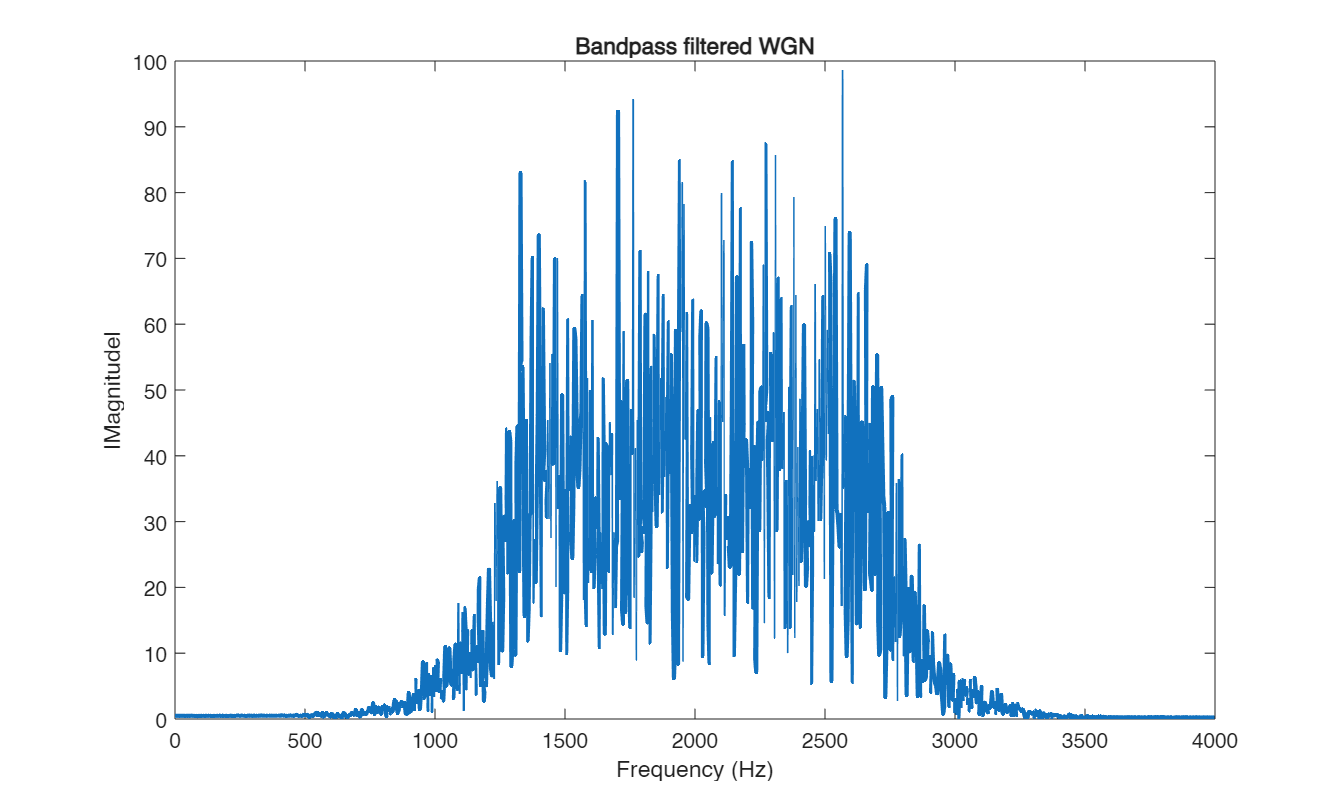
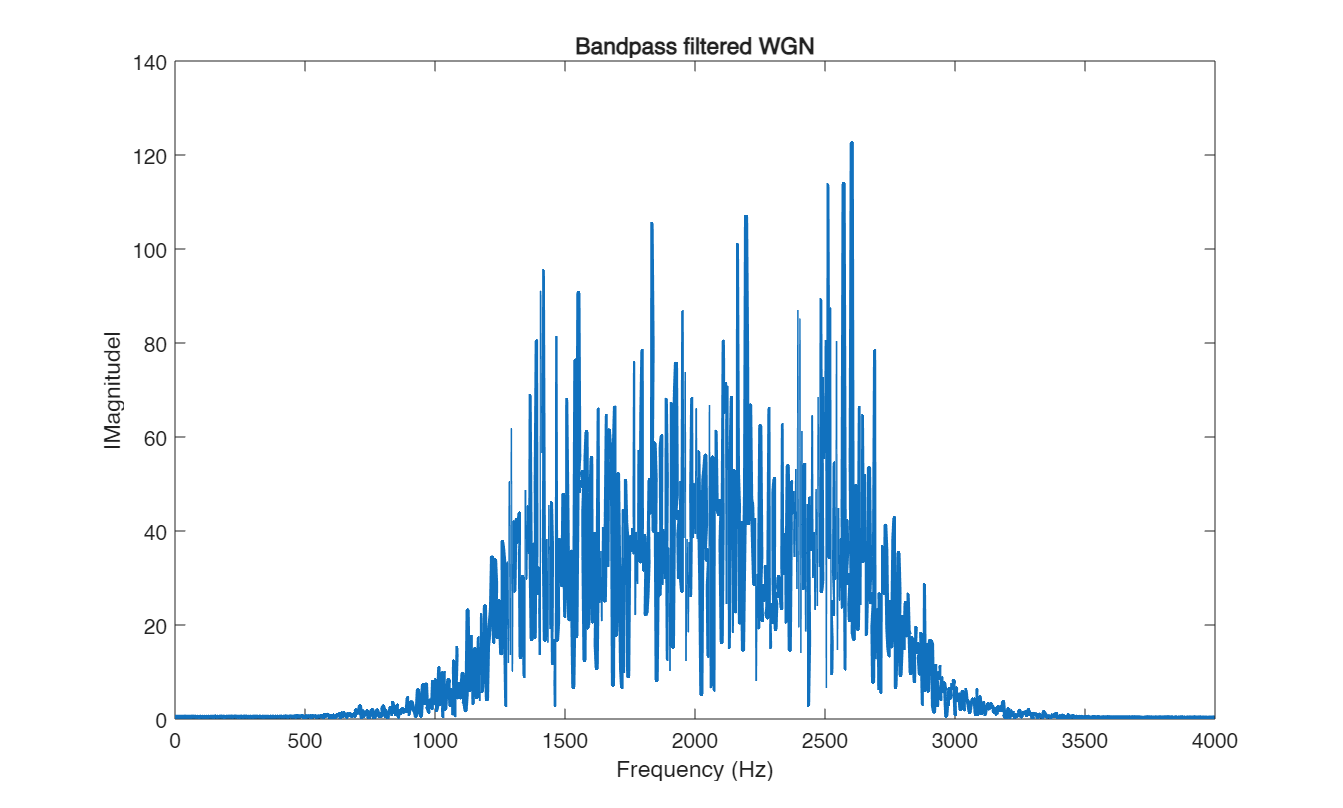
bp zero pad

diff --git a/MiniProject/IIR_coeffs/bp.h b/MiniProject/IIR_coeffs/bp.h
@@ -1,5 +1,5 @@
-#define N_IIR_BP 7
+#define N_IIR_BP 8
 
-float b_iir_bp[] = { 0.0503269f, 0.0000000f, -0.1344112f, 0.0000000f, 0.1344112f, -0.0000000f, -0.0503269f };
+float b_iir_bp[] = { 0.0503269f, 0.0000000f, -0.1344112f, 0.0000000f, 0.1344112f, -0.0000000f, -0.0503269f, 0.0000000f };
 
-float a_iir_bp[] = { 1.0000000f, -0.0000000f, 1.3798802f, -0.0000000f, 1.1092451f, 0.0000000f, 0.3598888f };
+float a_iir_bp[] = { 1.0000000f, -0.0000000f, 1.3798802f, -0.0000000f, 1.1092451f, 0.0000000f, 0.3598888f, 0.0000000f };

diff --git a/assign.m b/assign.m
@@ -46,6 +46,10 @@ filterAnalyzer(lpfilt, bpfilt, hpfilt, ...
 [bp_b, bp_a] = tf(bpfilt);
 [hp_b, hp_a] = tf(hpfilt);
 
+% pad the BP with a 0
+bp_a = [bp_a 0];
+bp_b = [bp_b 0];
+
 % analyze the transfer functions
 filterAnalyzer(lp_b, lp_a, bp_b, bp_a, hp_b, hp_a, ...
             FilterNames=["Lowpass_tf", "Bandpass_tf", "Highpass_tf"], ...
